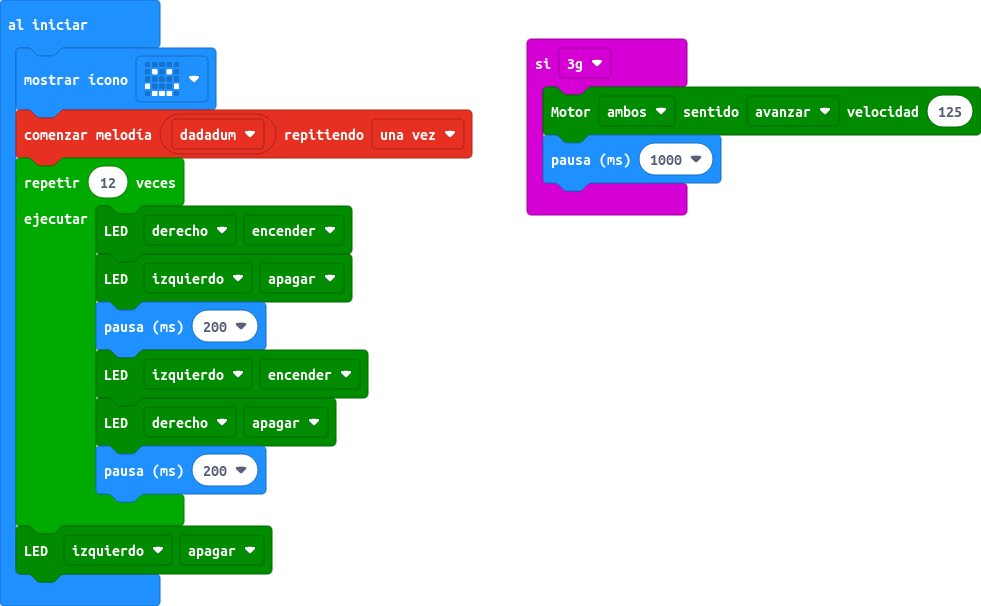
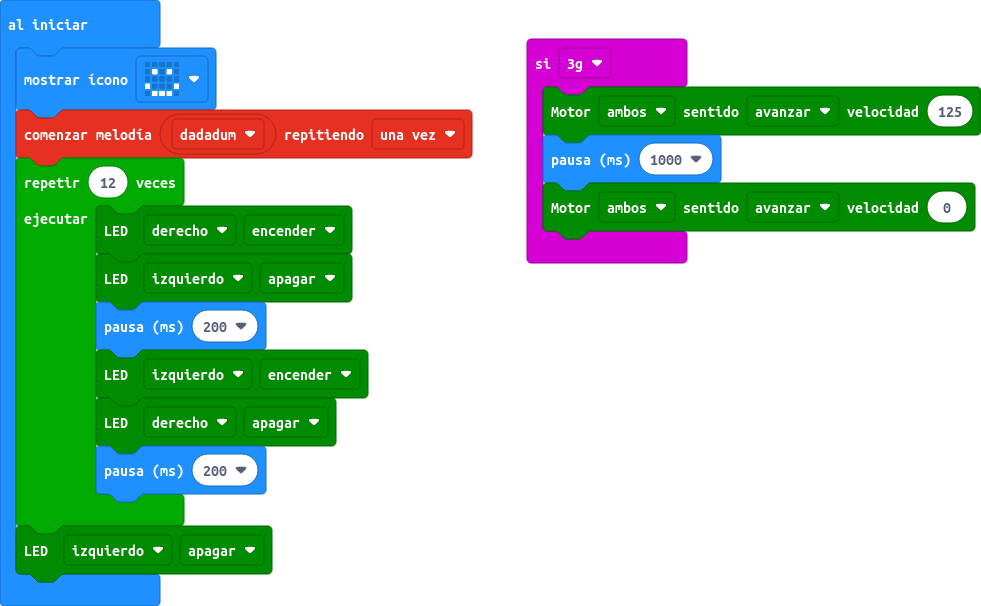
Para los motores, xD

Changed region(s): [[0.5199, 0.297, 1.0, 0.4455]]

diff --git a/main.ts b/main.ts
@@ -1,6 +1,7 @@
 input.onGesture(Gesture.ThreeG, function () {
     maqueen.motorRun(maqueen.Motors.All, maqueen.Dir.CW, 125)
     basic.pause(1000)
+    maqueen.motorRun(maqueen.Motors.All, maqueen.Dir.CW, 0)
 })
 basic.showIcon(IconNames.Happy)
 music.startMelody(music.builtInMelody(Melodies.Dadadadum), MelodyOptions.Once)
